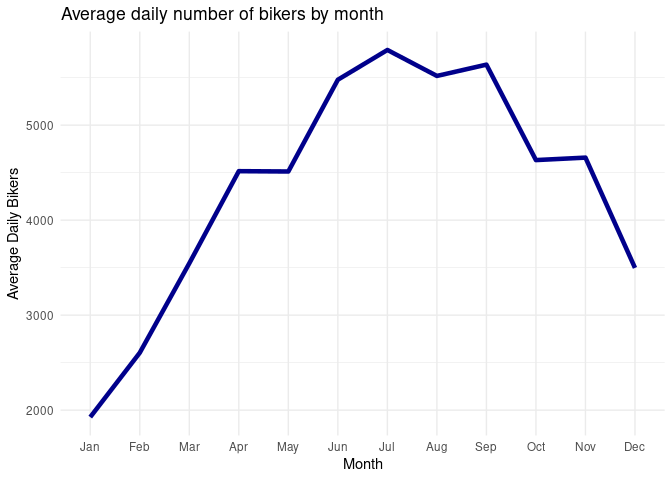
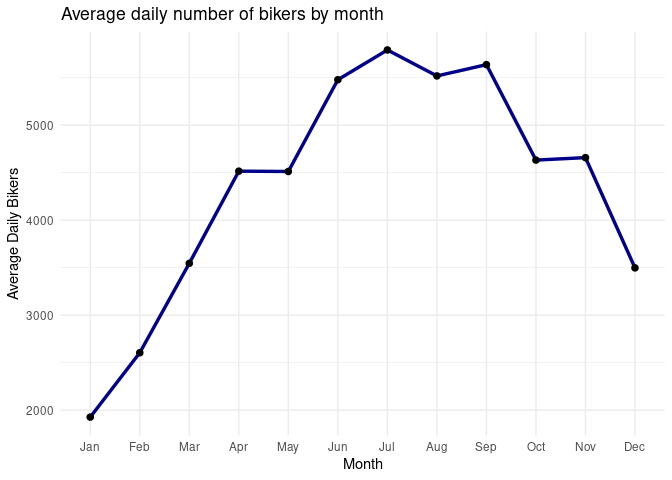
Added second lm and boosting writeup

diff --git a/ST558-Project-2.md b/ST558-Project-2.md
@@ -1,19 +1,25 @@
 ST558 Project 2
 ================
-Crista Gregg, Halid Kopanski, Dionte Watie
+Crista Gregg and Halid Kopanski
 7/2/2021
 
 -   [Introduction](#introduction)
 -   [Data](#data)
 -   [Summarizations](#summarizations)
-    -   [Contributions from Crista](#contributions-from-crista)
+    -   [Rentals by Year](#rentals-by-year)
+    -   [Rentals by Weather](#rentals-by-weather)
+    -   [Casual vs. Registered bikers](#casual-vs-registered-bikers)
+    -   [Average bikers by month](#average-bikers-by-month)
     -   [Holiday and Temp/Hum data](#holiday-and-temphum-data)
     -   [Correlation among numeric
         predictors](#correlation-among-numeric-predictors)
 -   [Modeling](#modeling)
     -   [Linear Regression](#linear-regression)
+        -   [Linear Fit 1](#linear-fit-1)
+        -   [Linear Fit 2](#linear-fit-2)
     -   [Ensemble Tree](#ensemble-tree)
--   [Modeling](#modeling-1)
+        -   [Random Forests](#random-forests)
+        -   [Boosting Model](#boosting-model)
 -   [Comparison](#comparison)
 
 # Introduction
@@ -83,28 +89,34 @@ season_function <- function(x){
 
 bikes <- bikes %>% select(everything()) %>% 
   mutate(weekday = sapply(weekday, day_function), 
-         season = sapply(season, season_function))
+         season = sapply(season, season_function)) 
+  
 
 bikes$season <- as.factor(bikes$season)
 bikes$yr <- as.factor(bikes$yr)
-#bikes$mnth <- as.factor(bikes$mnth)
+levels(bikes$yr) <- c('2019','2020')
+bikes$mnth <- as.factor(bikes$mnth)
 bikes$holiday <- as.factor(bikes$holiday)
 bikes$weekday <- as.factor(bikes$weekday)
 bikes$workingday <- as.factor(bikes$workingday)
 bikes$weathersit <- as.factor(bikes$weathersit)
 
-day <- params$day_of_week #will need to automate this
+day <- params$day_of_week
 
 #filter bikes by day of week
 bikes <- filter(bikes, weekday == day)
+
+#split data into train and test sets
 train_rows <- sample(nrow(bikes), 0.7*nrow(bikes))
-train <- bikes[train_rows,]
-test <- bikes[-train_rows,]
+train <- bikes[train_rows,] %>% 
+  select(-instant, -weekday, -casual, -registered)
+test <- bikes[-train_rows,] %>% 
+  select(-instant, -weekday, -casual, -registered)
 ```
 
 # Summarizations
 
-## Contributions from Crista
+## Rentals by Year
 
 The following table tells us the total number of rentals for each of the
 two years of collected data, as well as the average number of rentals
@@ -119,8 +131,10 @@ bikes %>%
     ## # A tibble: 2 x 3
     ##   yr    total_rentals avg_rentals
     ##   <fct>         <dbl>       <dbl>
-    ## 1 0            180221        3466
-    ## 2 1            275282        5194
+    ## 1 2019         180221        3466
+    ## 2 2020         275282        5194
+
+## Rentals by Weather
 
 The following box plot shows us how many rentals we have for days that
 are sunny or partly cloudy, misty, or rainy/snowy. We may expect some
@@ -137,6 +151,8 @@ ggplot(bikes, aes(factor(weathersit), cnt)) +
 ```
 
 ![](ST558-Project-2_files/figure-gfm/unnamed-chunk-3-1.png)<!-- -->
+
+## Casual vs. Registered bikers
 
 Below is a chart of the relationship between casual and registered
 bikers. We might expect a change in the slope if we look at different
@@ -155,6 +171,8 @@ ggplot(bikes, aes(casual, registered)) +
 
 ![](ST558-Project-2_files/figure-gfm/unnamed-chunk-4-1.png)<!-- -->
 
+## Average bikers by month
+
 Below we see a plot of the average daily number of bikers by month. We
 should expect to see more bikers in the spring and summer months, and
 the least in the winter.
@@ -165,14 +183,12 @@ plot_mth <- bikes %>%
   summarize(avg_bikers = mean(cnt))
 
 ggplot(plot_mth, aes(mnth, avg_bikers)) +
-  geom_line(color = 'darkblue', size = 1.6) +
+  geom_line(group = 1, color = 'darkblue', size = 1.2) +
+  geom_point(size = 2) +
   theme_minimal() +
   labs(title='Average daily number of bikers by month', y = 'Average Daily Bikers', x = 'Month') +
-  scale_x_discrete(limits = 1:12, labels = month.abb)
+  scale_x_discrete(labels = month.abb)
 ```
-
-    ## Warning: Continuous limits supplied to discrete scale.
-    ## Did you mean `limits = factor(...)` or `scale_*_continuous()`?
 
 ![](ST558-Project-2_files/figure-gfm/unnamed-chunk-5-1.png)<!-- -->
 
@@ -266,9 +282,104 @@ corrplot(cor(bikes[ , c(11:16)]), method = "circle")
 
 ## Linear Regression
 
+Linear regression is one of the most common methods for modeling. It
+looks at a set of predictors and estimates what will happen to the
+response if the predictors change. This model is highly interpretable,
+as it shows us the effect of each individual predictor as well as
+interactions. We can see if the change in the response goes up or down
+and in what quantity. Below we fit two linear regression models.
+
+### Linear Fit 1
+
+The first model will have a subset of predictors chosen by stepwise
+selection.
+
+``` r
+set.seed(10)
+lm.fit <- train(cnt ~ season + yr + weathersit + atemp + hum + windspeed, data = train[, 2:12], method = 'lm',
+                preProcess = c('center', 'scale'),
+                trControl = trainControl(method = 'cv', number = 10))
+```
+
+    ## Warning in preProcess.default(thresh = 0.95, k = 5, freqCut = 19, uniqueCut =
+    ## 10, : These variables have zero variances: weathersit3
+
+    ## Warning in predict.lm(modelFit, newdata): prediction from a rank-deficient fit
+    ## may be misleading
+
+``` r
+lm.fit
+```
+
+    ## Linear Regression 
+    ## 
+    ## 73 samples
+    ##  6 predictor
+    ## 
+    ## Pre-processing: centered (9), scaled (9) 
+    ## Resampling: Cross-Validated (10 fold) 
+    ## Summary of sample sizes: 65, 65, 66, 65, 66, 66, ... 
+    ## Resampling results:
+    ## 
+    ##   RMSE     Rsquared   MAE    
+    ##   795.377  0.8202952  595.303
+    ## 
+    ## Tuning parameter 'intercept' was held constant at a value of TRUE
+
+Our first linear model has an R<sup>2</sup> of 795.3769648.
+
+### Linear Fit 2
+
+Using transformations of predictors identified in the first linear fit
+and dropping the year predictor (in an effort to forecast future usage).
+
+``` r
+set.seed(10)
+lm.fit1 <- train(cnt ~ season + weathersit + poly(hum, 3) + I(atemp^0.5) + windspeed, data = train[, 2:12], method = 'lm',
+                preProcess = c('center', 'scale'),
+                trControl = trainControl(method = 'cv', number = 10))
+lm.fit1
+```
+
+    ## Linear Regression 
+    ## 
+    ## 73 samples
+    ##  5 predictor
+    ## 
+    ## Pre-processing: centered (10), scaled (10) 
+    ## Resampling: Cross-Validated (10 fold) 
+    ## Summary of sample sizes: 65, 65, 66, 65, 66, 66, ... 
+    ## Resampling results:
+    ## 
+    ##   RMSE     Rsquared   MAE     
+    ##   1102.85  0.6457238  925.2214
+    ## 
+    ## Tuning parameter 'intercept' was held constant at a value of TRUE
+
+The R<sup>2</sup> value of the model changed to 1102.8503247
+
 ## Ensemble Tree
 
-# Modeling
+Ensemble trees methods come in many types and are very versatile when it
+comes to regression or classification. For the following we will be
+using the two most common and well known methods, Random Forests (a form
+of bagging) and Boosting. Both these tree based methods involve
+optimization during the development process. In the case of random
+forests, the optimization involves varying the number of predictors
+used. This is done to mitigate the effects of one or more predictors
+from overshadowing other predictors. Boosting is method where the final
+model is developed through an iterative combination of weaker models
+where each interation builds upon the last. While both methods are very
+flexible and tend to process good results the models themselves are as
+interpretable as linear regression. We normally just analyze the output
+of the models.
+
+### Random Forests
+
+### Boosting Model
+
+The following are the results of Boosting model development using the
+provided bike data
 
 ``` r
 trctrl <- trainControl(method = "repeatedcv", 
@@ -285,9 +396,13 @@ boost_grid <- expand.grid(n.trees = c(20, 100, 500),
 boost_fit <-  train(cnt ~ ., 
                     data = select(train, cnt, hum, temp, atemp, windspeed, workingday, season, weathersit), 
                     method = "gbm", 
+                    verbose = F, #suppresses excessive printing while model is training
                     trControl = trctrl, 
                     tuneGrid = data.frame(boost_grid))
 ```
+
+A total of 27 models were evaluated each differing by the combination of
+boosting parameters. The results are show below:
 
 ``` r
 print(boost_fit)
@@ -339,7 +454,11 @@ print(boost_fit)
 
 ``` r
 results_tab <- as_tibble(boost_fit$results[,c(1,2,4:6)])
+```
 
+The attributes of the best model is shown here.
+
+``` r
 boost_min <- which.min(results_tab$RMSE)
 
 knitr::kable(results_tab[boost_min,])
